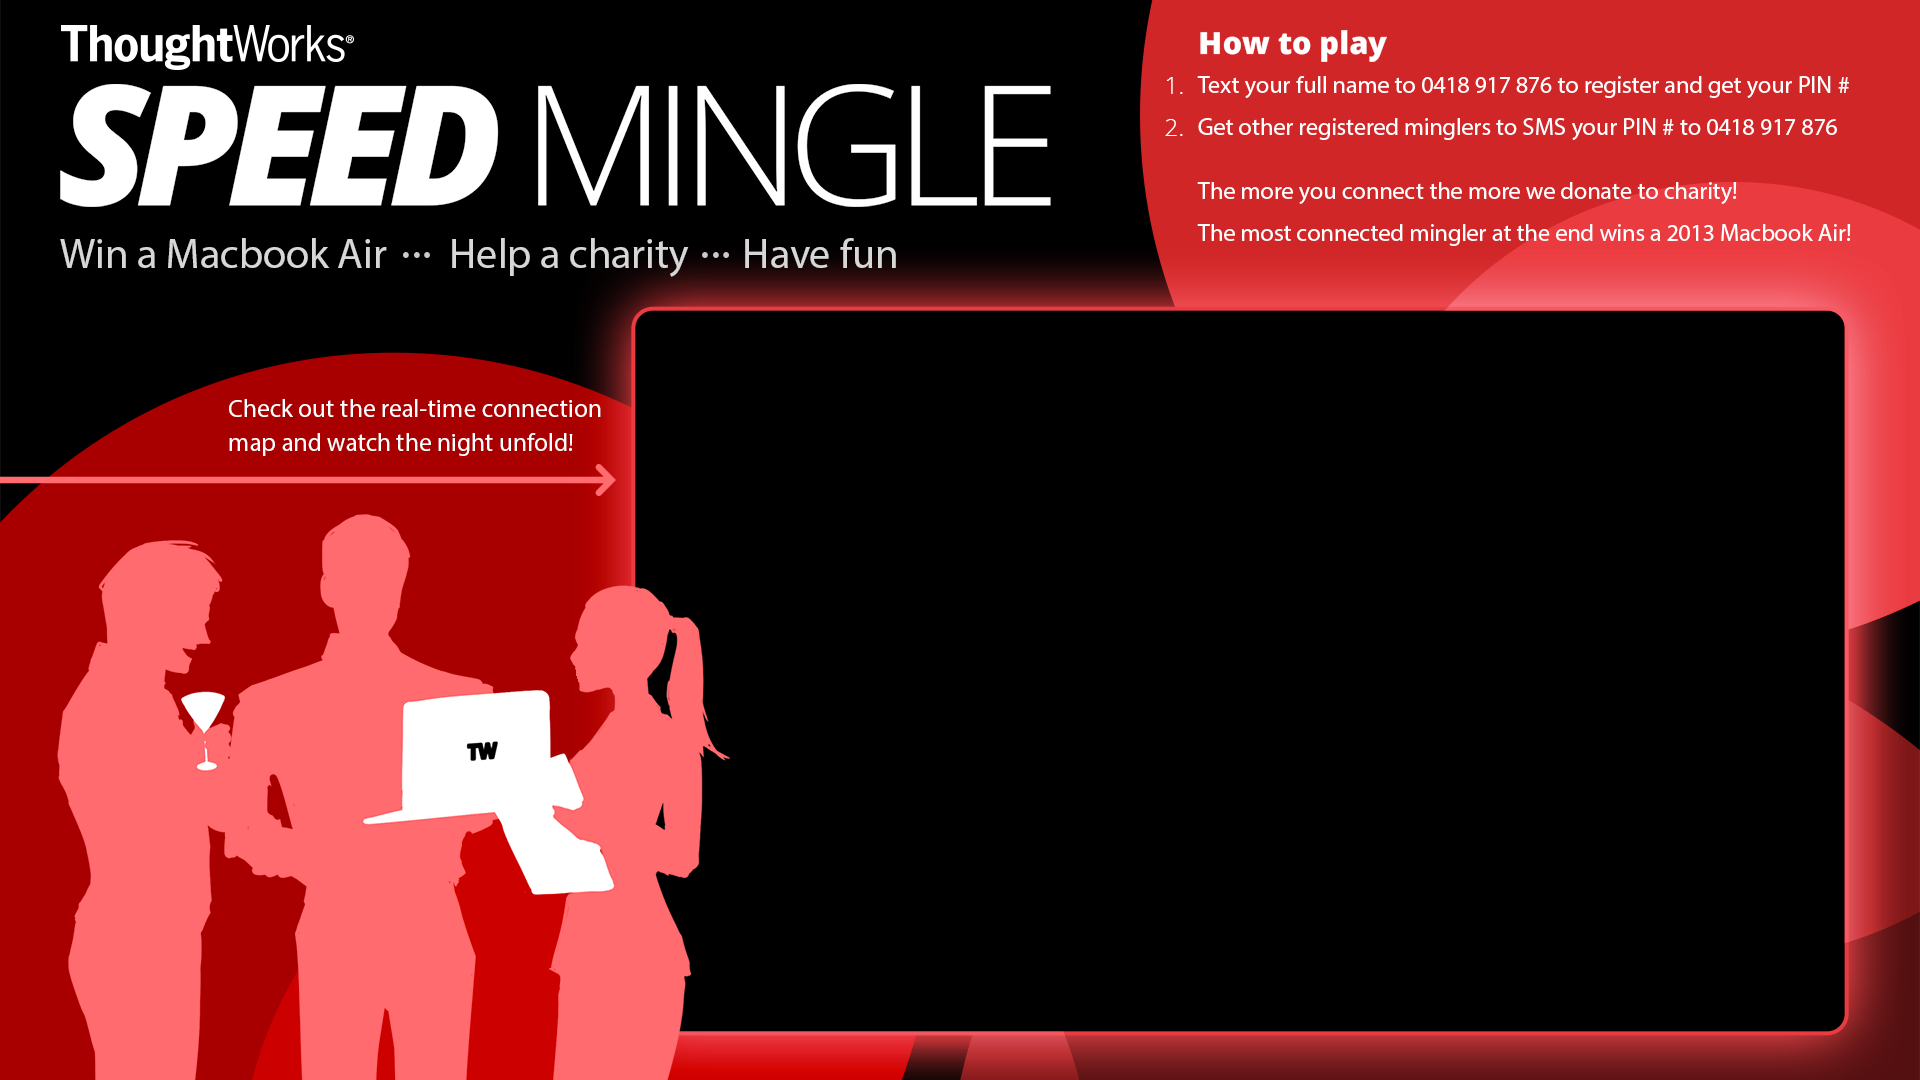
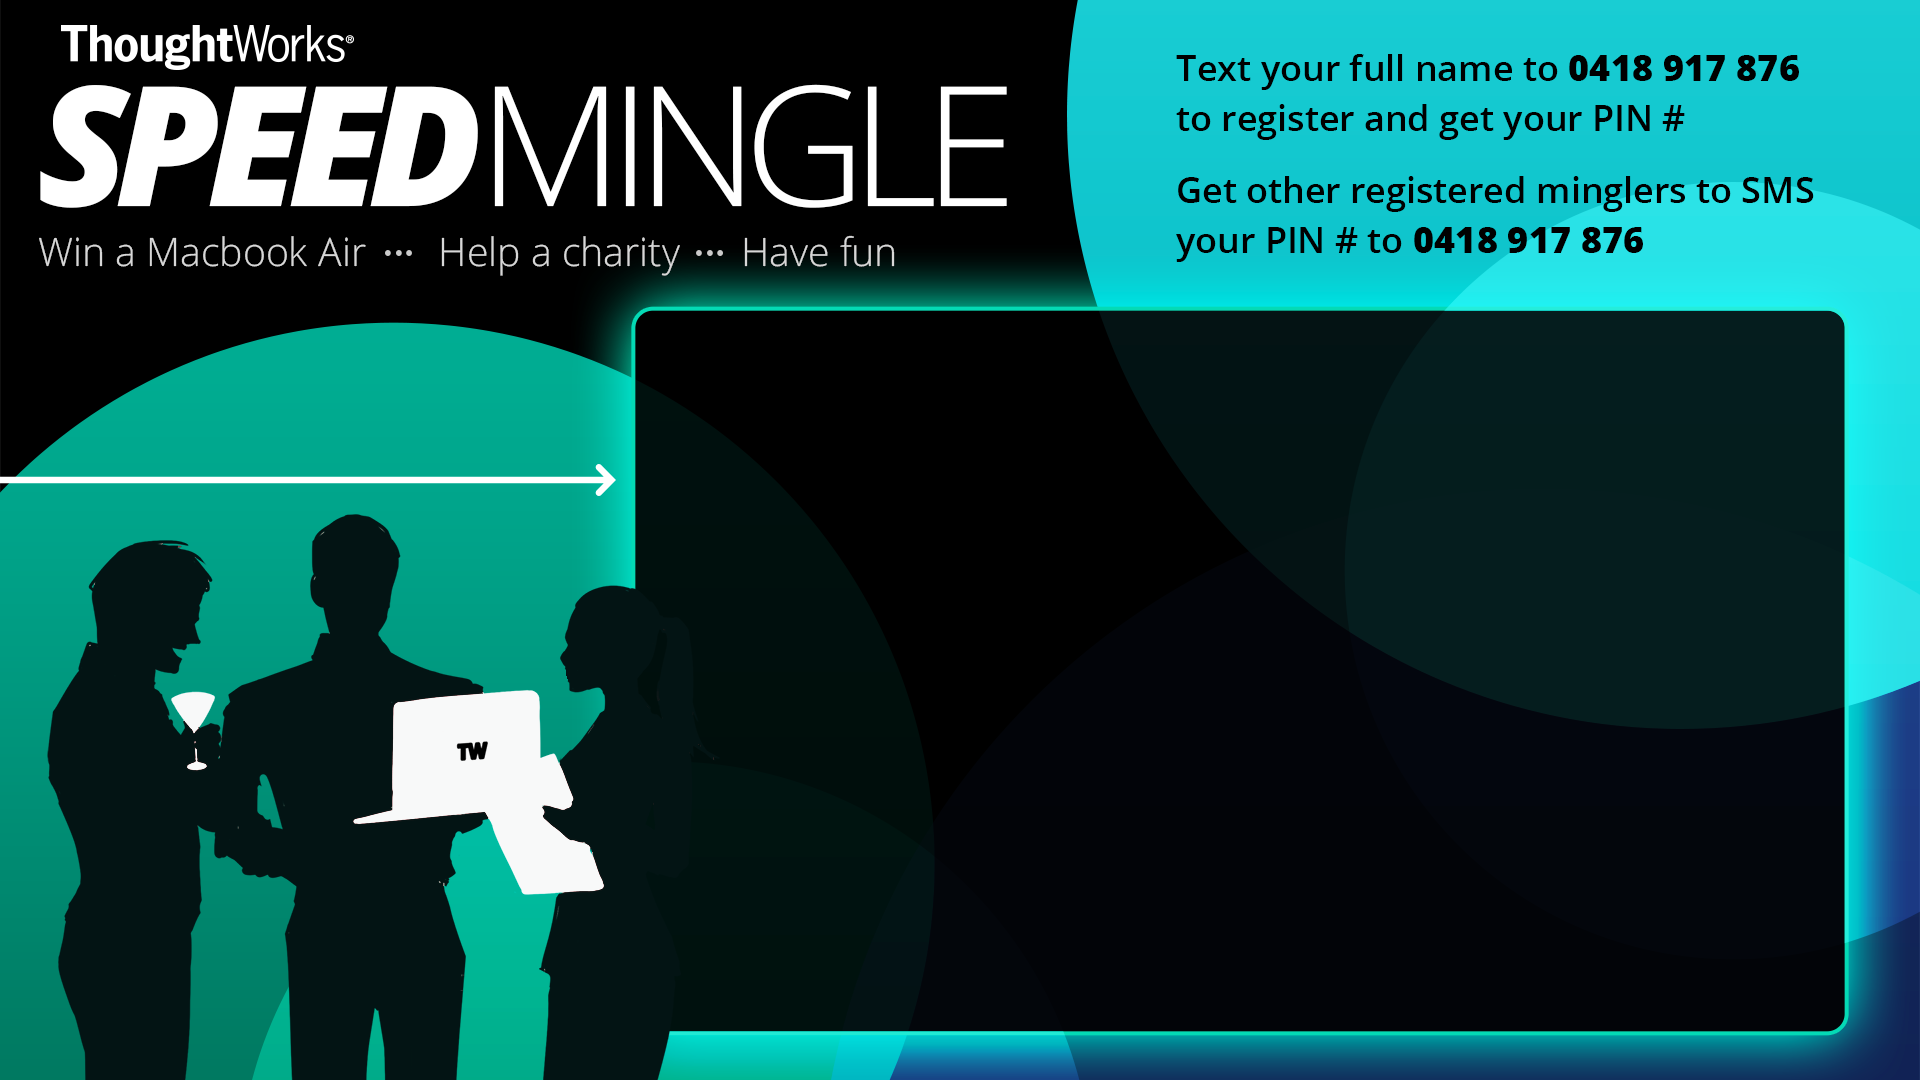
Fixed colour scheme for TV display

diff --git a/public/styles.css b/public/styles.css
@@ -38,7 +38,7 @@ textarea{overflow:auto;vertical-align:top;}
 table{border-collapse:collapse;border-spacing:0}
 .node{stroke:#fff;stroke-width:1.5px;font:10px sans-serif}
 .link{stroke:#999;stroke-opacity:.6;fill:none}
-body{margin:0;font-size:16px;line-height:24px;font-family:"Helvetica Neue",Helvetica,sans-serif;background-color:#fff;color:#000}
+body{margin:0;font-size:16px;line-height:24px;font-family:"Helvetica Neue",Helvetica,sans-serif;background-color:#000;color:#000}
 #leaderboard-wrapper{background-image:url("/img/bg_1080p.png");width:1920px;height:1080px}
 #dashboard-wrapper{background-image:url("/img/bg_1080p.png");width:1920px;height:1080px}
 #dashboard-title{position:absolute;top:320px;left:700px;color:#fff;text-align:left}
@@ -53,11 +53,11 @@ input[type='submit']:hover,button:hover{background:none repeat scroll 0 0 #d9d9d
 button:active{background:none repeat scroll 0 0 #d0d0d0;box-shadow:0 0 1px 1px #e3e3e3 inset;color:#000}
 #leaderboard text{font-size:24px}
 #leaderboard .leaderboard-title{color:#fff}
-#leaderboard .bar-container{fill:#008000;stroke:#fff}
+#leaderboard .bar-container{fill:#00aa90;stroke:#fff}
 #leaderboard .bar-label{stroke:none;fill:#fff}
 #leaderboard .label-container{stroke:none;fill:#fff}
 #network-graph text{font-size:16px;font-family:'Open Sans','Helvetica Neue',Helvetica,Arial,sans-serif}
 #network-graph circle{stroke-width:2;transition:all 300ms ease}
 #network-graph circle:hover,#network-graph circle:active,#network-graph circle:focus{stroke-width:5px}
-#network-graph .link{fill:#090;stroke:#090;stroke-width:5px}
+#network-graph .link{fill:#090;stroke:#090;stroke-width:3px}
 #network-graph .node{fill:none;stroke:none}
